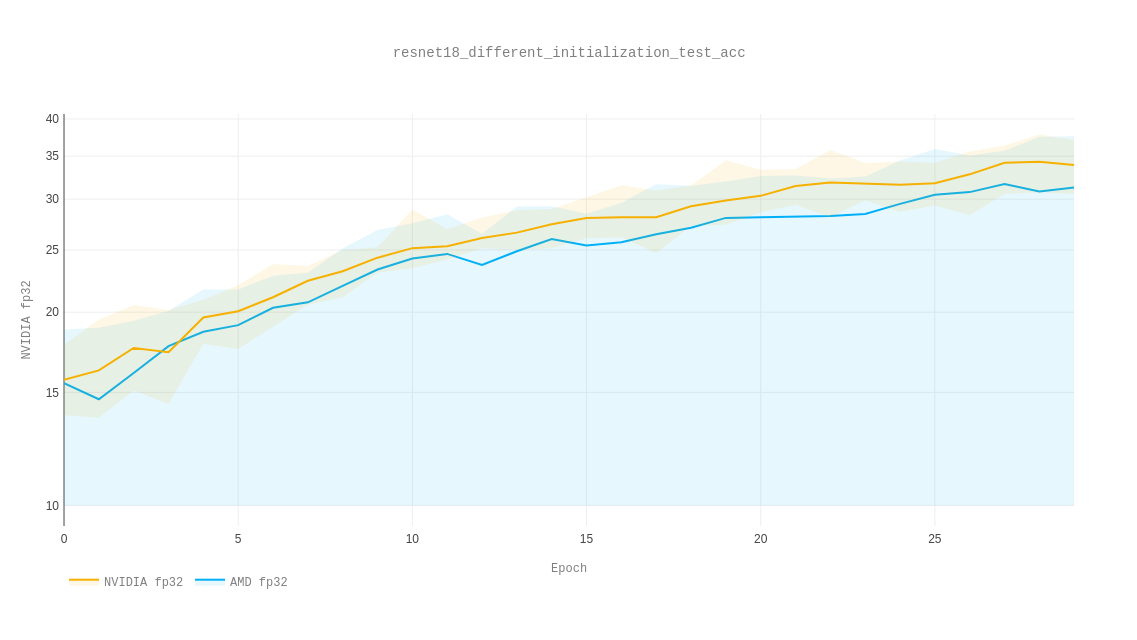
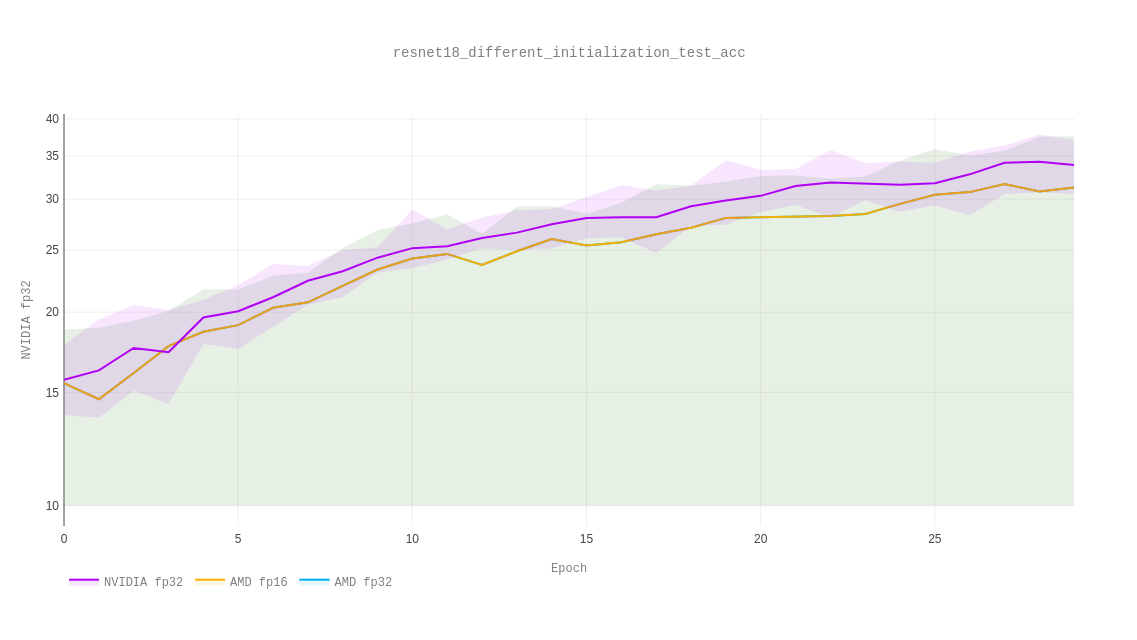
add resnet for cifar10

diff --git a/reproducibility/resnet.py b/reproducibility/resnet.py
@@ -1,0 +1,118 @@
+'''ResNet in PyTorch.
+
+For Pre-activation ResNet, see 'preact_resnet.py'.
+
+Reference:
+[1] Kaiming He, Xiangyu Zhang, Shaoqing Ren, Jian Sun
+    Deep Residual Learning for Image Recognition. arXiv:1512.03385
+'''
+import torch
+import torch.nn as nn
+import torch.nn.functional as F
+
+
+class BasicBlock(nn.Module):
+    expansion = 1
+
+    def __init__(self, in_planes, planes, stride=1):
+        super(BasicBlock, self).__init__()
+        self.conv1 = nn.Conv2d(in_planes, planes, kernel_size=3, stride=stride, padding=1, bias=False)
+        self.bn1 = nn.BatchNorm2d(planes)
+        self.conv2 = nn.Conv2d(planes, planes, kernel_size=3, stride=1, padding=1, bias=False)
+        self.bn2 = nn.BatchNorm2d(planes)
+
+        self.shortcut = nn.Sequential()
+        if stride != 1 or in_planes != self.expansion*planes:
+            self.shortcut = nn.Sequential(
+                nn.Conv2d(in_planes, self.expansion*planes, kernel_size=1, stride=stride, bias=False),
+                nn.BatchNorm2d(self.expansion*planes)
+            )
+
+    def forward(self, x):
+        out = F.relu(self.bn1(self.conv1(x)))
+        out = self.bn2(self.conv2(out))
+        out += self.shortcut(x)
+        out = F.relu(out)
+        return out
+
+
+class Bottleneck(nn.Module):
+    expansion = 4
+
+    def __init__(self, in_planes, planes, stride=1):
+        super(Bottleneck, self).__init__()
+        self.conv1 = nn.Conv2d(in_planes, planes, kernel_size=1, bias=False)
+        self.bn1 = nn.BatchNorm2d(planes)
+        self.conv2 = nn.Conv2d(planes, planes, kernel_size=3, stride=stride, padding=1, bias=False)
+        self.bn2 = nn.BatchNorm2d(planes)
+        self.conv3 = nn.Conv2d(planes, self.expansion*planes, kernel_size=1, bias=False)
+        self.bn3 = nn.BatchNorm2d(self.expansion*planes)
+
+        self.shortcut = nn.Sequential()
+        if stride != 1 or in_planes != self.expansion*planes:
+            self.shortcut = nn.Sequential(
+                nn.Conv2d(in_planes, self.expansion*planes, kernel_size=1, stride=stride, bias=False),
+                nn.BatchNorm2d(self.expansion*planes)
+            )
+
+    def forward(self, x):
+        out = F.relu(self.bn1(self.conv1(x)))
+        out = F.relu(self.bn2(self.conv2(out)))
+        out = self.bn3(self.conv3(out))
+        out += self.shortcut(x)
+        out = F.relu(out)
+        return out
+
+
+class ResNet(nn.Module):
+    def __init__(self, block, num_blocks, num_classes=10):
+        super(ResNet, self).__init__()
+        self.in_planes = 64
+
+        self.conv1 = nn.Conv2d(3, 64, kernel_size=3, stride=1, padding=1, bias=False)
+        self.bn1 = nn.BatchNorm2d(64)
+        self.layer1 = self._make_layer(block, 64, num_blocks[0], stride=1)
+        self.layer2 = self._make_layer(block, 128, num_blocks[1], stride=2)
+        self.layer3 = self._make_layer(block, 256, num_blocks[2], stride=2)
+        self.layer4 = self._make_layer(block, 512, num_blocks[3], stride=2)
+        self.linear = nn.Linear(512*block.expansion, num_classes)
+
+    def _make_layer(self, block, planes, num_blocks, stride):
+        strides = [stride] + [1]*(num_blocks-1)
+        layers = []
+        for stride in strides:
+            layers.append(block(self.in_planes, planes, stride))
+            self.in_planes = planes * block.expansion
+        return nn.Sequential(*layers)
+
+    def forward(self, x):
+        out = F.relu(self.bn1(self.conv1(x)))
+        out = self.layer1(out)
+        out = self.layer2(out)
+        out = self.layer3(out)
+        out = self.layer4(out)
+        out = F.avg_pool2d(out, 4)
+        out = out.view(out.size(0), -1)
+        out = self.linear(out)
+        return out
+
+
+def resnet18_cifar():
+    return ResNet(BasicBlock, [2,2,2,2])
+
+
+def resnet34_cifar():
+    return ResNet(BasicBlock, [3,4,6,3])
+
+
+def resnet50_cifar():
+    return ResNet(Bottleneck, [3,4,6,3])
+
+
+def resnet101_cifar():
+    return ResNet(Bottleneck, [3,4,23,3])
+
+
+def resnet152_cifar():
+    return ResNet(Bottleneck, [3,8,36,3])
+

diff --git a/reproducibility/convnets.py b/reproducibility/convnets.py
@@ -13,10 +13,13 @@ import argparse
 import os
 import traceback
 from apex import amp
+import reproducibility.resnet as resnet_cifar
 
 
 sys.stderr = sys.stdout
 
+all_models = models.__dict__
+all_models.update(resnet_cifar.__dict__)
 parser = argparse.ArgumentParser(description='Convnet training for torchvision models')
 
 parser.add_argument('--batch-size', '-b', type=int, help='batch size', default=256)
@@ -27,7 +30,7 @@ parser.add_argument('--workers', '-j', type=int, default=4, help='number of work
 parser.add_argument('--seed', '-s', type=int, default=0, help='seed to use')
 parser.add_argument('--epochs', '-e', type=int, default=30, help='number of epochs')
 
-parser.add_argument('--arch', '-a', metavar='ARCH', default='convnet')
+parser.add_argument('--arch', '-a', metavar='ARCH', default='convnet', choices=all_models.keys())
 parser.add_argument('--lr', '--learning-rate', default=0.1, type=float, metavar='LR')
 parser.add_argument('--momentum', default=0.9, type=float, metavar='MT')
 parser.add_argument('--opt-level', default='O0', type=str)
@@ -100,9 +103,12 @@ class ConvClassifier(nn.Module):
 init_file = f'{WEIGHT_LOC}/{tag}_{args.seed}_{args.arch}.init'
 if args.arch == 'convnet':
     model = ConvClassifier(args.shape)
+elif args.arch.endswith('cifar'):
+    args.shape = (3, 32, 32)
+    model = all_models[args.arch]()
 else:
     args.shape = (3, 224, 224)
-    model = models.__dict__[args.arch]()
+    model = all_models[args.arch]()
 
 
 if args.init is not None:

diff --git a/reproducibility/plot.py b/reproducibility/plot.py
@@ -197,7 +197,7 @@ for m, name in [('test_acc', 'Test Accuracy'), ('train_loss', 'Train Loss'), ('t
     curves_2 = []
     files = [
         (f'{BASE}/results/resnet18_amd_2.json', f'AMD fp32'),
-        # (f'{BASE}/results/amd_fp16_2.json', f'AMD fp16'),
+        (f'{BASE}/results/resnet18_amd_2.json', f'AMD fp16'),
         (f'{BASE}/results/resnet18_nvidia_2.json', f'NVIDIA fp32'),
         # (f'{BASE}/results/nvidia_p100_fp16_2.json', f'NVIDIA fp16')
     ]
@@ -217,7 +217,7 @@ for m, name in [('test_acc', 'Test Accuracy'), ('train_loss', 'Train Loss'), ('t
         (f'{BASE}/results/resnet18_amd_1.json', f'AMD fp32'),
         (f'{BASE}/results/resnet18_amd_fp16_1.json', f'AMD fp16'),
         (f'{BASE}/results/resnet18_nvidia_1.json', f'NVIDIA fp32'),
-        # (f'{BASE}/results/nvidia_p100_fp16_1.json', f'NVIDIA fp16')
+        (f'{BASE}/results/resnet18_nvidia_fp16_1.json', f'NVIDIA fp16')
     ]
 
     for i, (file, name) in enumerate(files):
